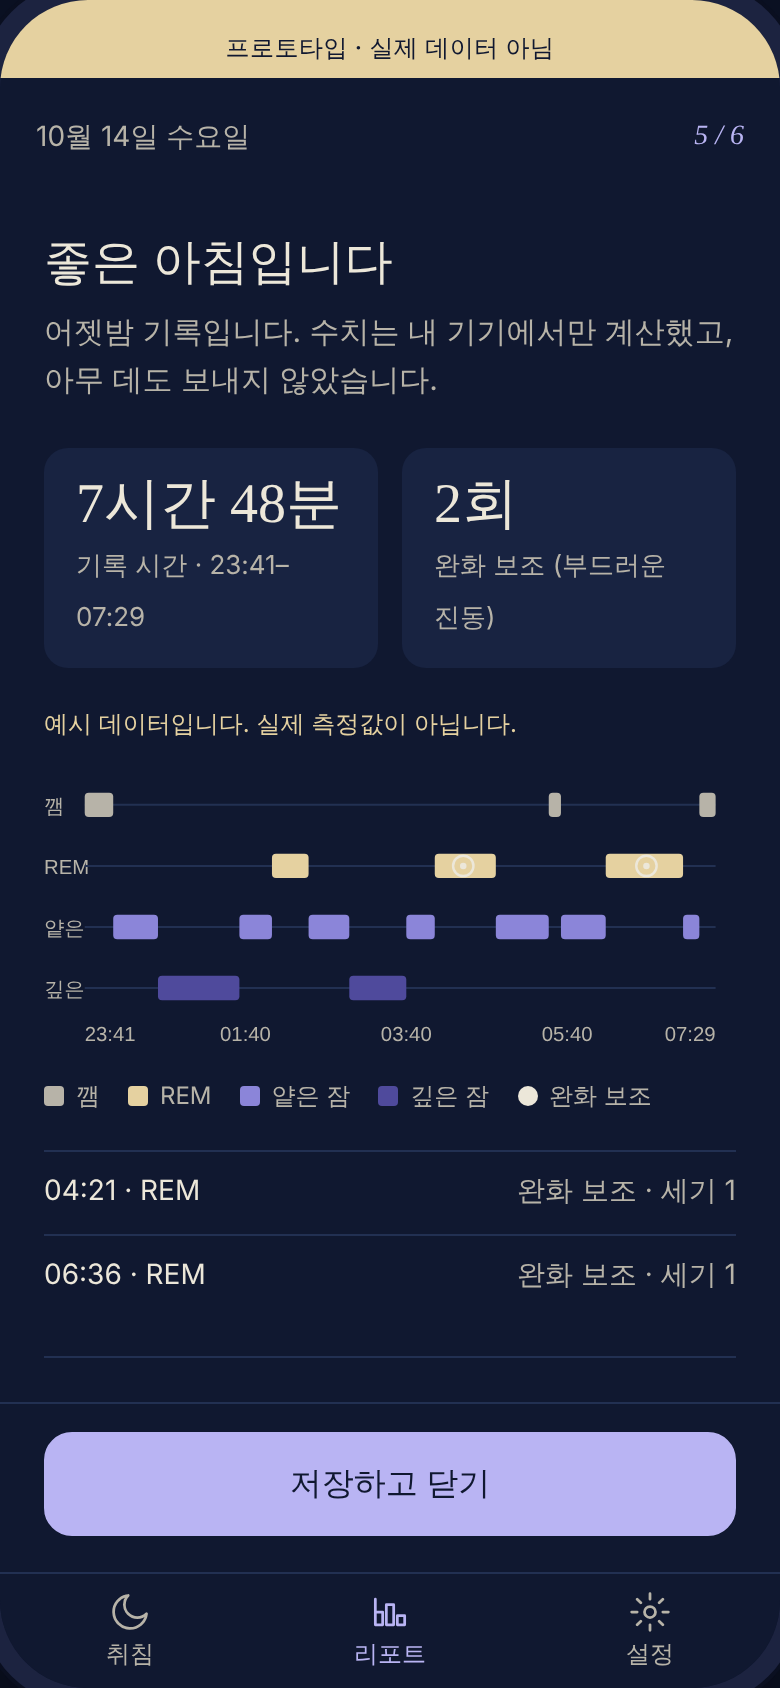
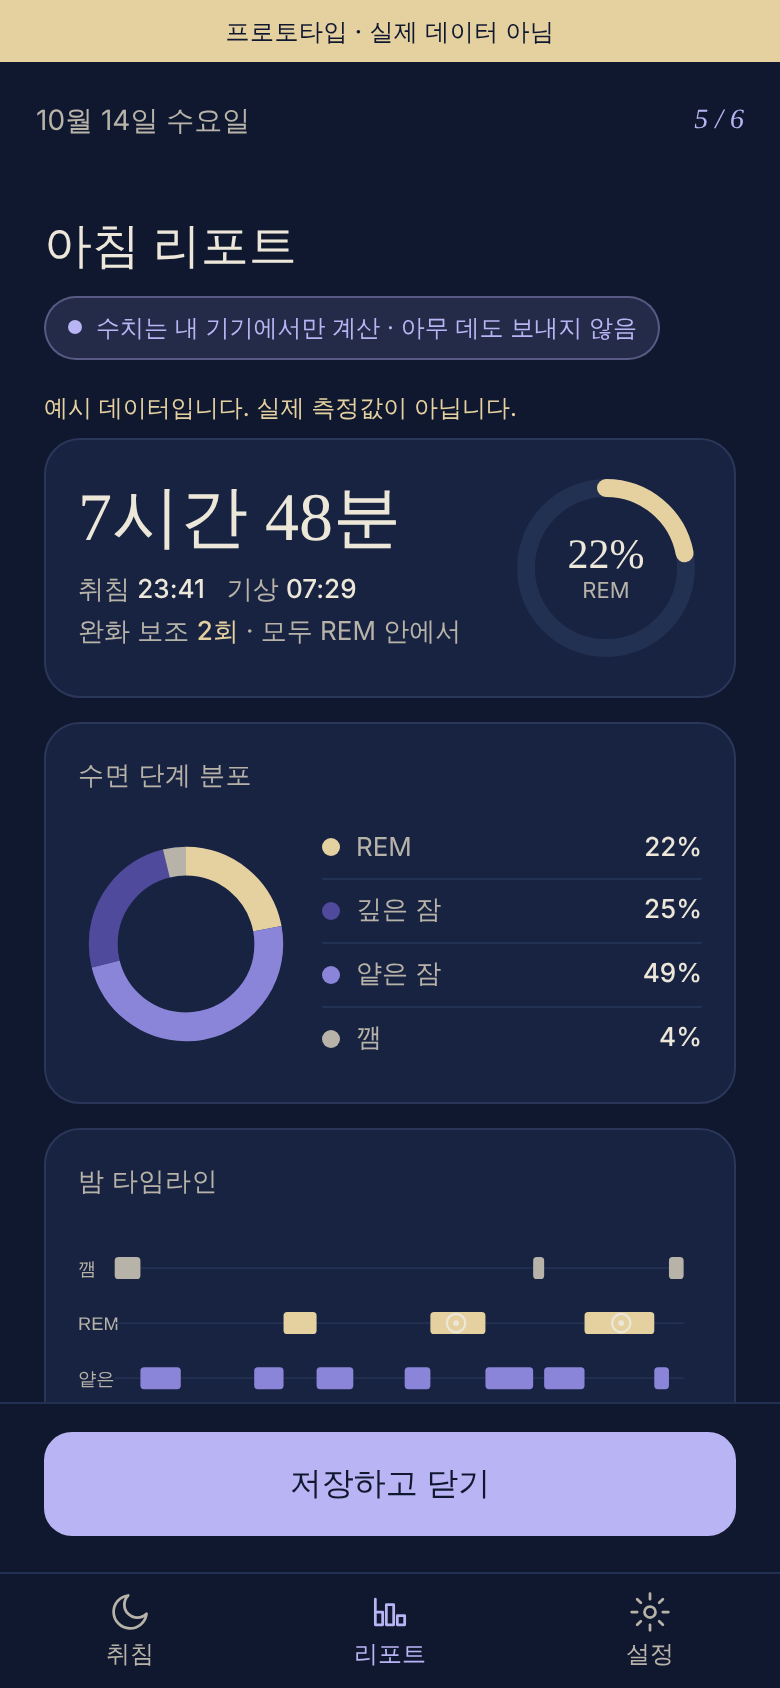
App prototype: morning report laid out Figma-style, same features and colors
Team meeting 2026-10-29 asked for the result screen to follow the earlier
Figma prototype's layout while keeping current features, wording and palette.

- Summary card: big duration + bedtime/wake + soothe count, ring shows REM
  share (no sleep score — per the app brief's "not doing" list).
- Sleep-stage distribution donut (same four stage colors as the band chart).
- Night timeline card keeps the existing band chart and legend.
- Soothe events in a highlighted card (time · REM · strength), named
  "완화 보조", not "악몽 감지".
- Two factual summary lines (no advice), then the existing feedback buttons
  (#fb / #fb-note) and "저장하고 닫기" (#report-save) — JS hooks unchanged.
- assets/app-report.png re-captured at 390×844@2x for the landing page.

Not carried over on purpose: score, HRV/respiration tiles, bone-conduction
wording, report sharing, home/monitoring/history tabs.

Claude-Session: https://claude.ai/code/session_01HWgQTQbC4EcVMsp2MT43n2

diff --git a/app/index.html b/app/index.html
@@ -192,6 +192,40 @@ input[type=range]{width:100%; height:44px; margin:0; accent-color:var(--lilac); 
 .fb button[aria-pressed="true"]{border-color:var(--lilac); background:rgba(185,180,243,.14); color:var(--moon)}
 .fb-note{font-size:13px; color:var(--moon-dim); margin-top:10px; min-height:1.4em}
 
+/* report v2 (2026-10-29 팀 미팅: Figma 레이아웃 차용 · 기능·색 동일) */
+.rp-pill{display:inline-flex; align-items:center; gap:7px; padding:5px 11px; border-radius:999px; font-size:12px; color:var(--lilac); background:rgba(185,180,243,.12); border:1px solid rgba(185,180,243,.35); margin:2px 0 14px}
+.rp-pill i{width:7px; height:7px; border-radius:50%; background:var(--lilac)}
+.rp-card{background:var(--depth); border:1px solid var(--haze); border-radius:18px; padding:16px; margin:0 0 12px}
+.rp-card h3{margin:0 0 10px; font-size:13px; font-weight:500; color:var(--moon-dim); letter-spacing:.02em}
+.rp-sum{display:grid; grid-template-columns:1fr 96px; align-items:center; gap:10px}
+.rp-sum .big{font-family:var(--serif); font-weight:400; font-size:34px; line-height:1.05; color:var(--moon)}
+.rp-sum .sm{font-size:13px; color:var(--moon-dim); margin-top:8px; line-height:1.55}
+.rp-sum .sm b{color:var(--moon); font-weight:500}
+.rp-sum .sm b.gold{color:var(--gold)}
+.rp-ring{position:relative; width:96px; height:96px}
+.rp-ring svg{width:96px; height:96px; transform:rotate(-90deg); display:block}
+.rp-ring .c{position:absolute; inset:0; display:grid; place-items:center; align-content:center; font-size:11px; color:var(--moon-dim); line-height:1.1}
+.rp-ring .c b{font-family:var(--serif); font-weight:400; font-size:21px; color:var(--moon)}
+.rp-dist{display:grid; grid-template-columns:108px 1fr; gap:14px; align-items:center}
+.rp-dist svg{width:108px; height:108px; display:block}
+.rp-dist ul{list-style:none; margin:0; padding:0; font-size:13px}
+.rp-dist li{display:flex; align-items:center; gap:8px; padding:5px 0; border-bottom:1px solid var(--haze-soft); color:var(--moon-dim)}
+.rp-dist li:last-child{border-bottom:0}
+.rp-dist li i{width:9px; height:9px; border-radius:50%; display:inline-block; flex:none}
+.rp-dist li b{margin-left:auto; color:var(--moon); font-weight:500}
+.rp-card .chart{margin:0}
+.rp-card .legend{margin:8px 0 0}
+.rp-ev{border-color:rgba(229,209,160,.5); background:linear-gradient(180deg, rgba(229,209,160,.07), var(--depth))}
+.rp-ev h3{color:var(--gold); display:flex; align-items:center; font-size:14px; font-weight:500}
+.rp-ev h3 .n{margin-left:auto; background:rgba(229,209,160,.16); color:var(--gold); border-radius:999px; padding:2px 10px; font-size:12px}
+.rp-ev .r{display:flex; justify-content:space-between; align-items:center; gap:8px; background:rgba(16,24,48,.55); border-radius:12px; padding:10px 12px; margin-top:8px; font-size:13px; color:var(--moon-dim)}
+.rp-ev .r b{color:var(--moon); font-weight:500; font-size:14px}
+.rp-facts{list-style:none; margin:0 0 12px; padding:0; display:grid; gap:8px}
+.rp-facts li{display:flex; gap:12px; background:var(--depth); border:1px solid var(--haze); border-radius:14px; padding:11px 14px; font-size:13px; line-height:1.5; color:var(--moon-dim)}
+.rp-facts li b{font-family:var(--serif); font-style:italic; color:var(--lilac); font-weight:400; min-width:20px}
+.rp-card.fbk h3{font-size:16px; font-weight:500; color:var(--moon); margin-bottom:4px}
+.rp-card.fbk .hint{font-size:13px; color:var(--moon-dim); margin:0 0 10px}
+
 /* data */
 .pill{display:inline-flex; align-items:center; gap:8px; padding:6px 12px; border-radius:999px; background:rgba(169,216,184,.12); color:var(--ok); font-size:13px; margin-bottom:16px}
 .pill i{width:8px; height:8px; border-radius:50%; background:var(--ok)}
@@ -342,63 +376,105 @@ input[type=range]{width:100%; height:44px; margin:0; accent-color:var(--lilac); 
     <section class="screen" id="s-report" aria-label="아침 리포트">
       <div class="bar"><span>10월 14일 수요일</span><span class="step">5 / 6</span></div>
       <div class="scroll">
-        <h2>좋은 아침입니다</h2>
-        <p class="lede">어젯밤 기록입니다. 수치는 내 기기에서만 계산했고, 아무 데도 보내지 않았습니다.</p>
-
-        <div class="kpis">
-          <div class="kpi"><b>7시간 48분</b><span>기록 시간 · 23:41–07:29</span></div>
-          <div class="kpi"><b>2회</b><span>완화 보조 (부드러운 진동)</span></div>
-        </div>
-
+        <h2>아침 리포트</h2>
+        <div class="rp-pill"><i></i>수치는 내 기기에서만 계산 · 아무 데도 보내지 않음</div>
         <p class="example">예시 데이터입니다. 실제 측정값이 아닙니다.</p>
-        <div class="chart" role="img" aria-label="수면 단계 띠 그래프 예시. 깸, REM, 얕은 잠, 깊은 잠이 밤 동안 번갈아 나타나고, REM 구간 두 곳에 완화 보조 표시가 있습니다.">
-          <svg viewBox="0 0 340 150" xmlns="http://www.w3.org/2000/svg">
-            <!-- stage rows: W y=18, R y=48, L y=78, D y=108 ; x 20..330 = 23:41..07:29 (468 min) -->
-            <g font-family="Noto Sans KR, sans-serif" font-size="10" fill="#b7b3a8">
-              <text x="0" y="28">깸</text><text x="0" y="58">REM</text><text x="0" y="88">얕은</text><text x="0" y="118">깊은</text>
-            </g>
-            <g stroke="#223052" stroke-width="1">
-              <line x1="20" y1="24" x2="330" y2="24"/><line x1="20" y1="54" x2="330" y2="54"/><line x1="20" y1="84" x2="330" y2="84"/><line x1="20" y1="114" x2="330" y2="114"/>
-            </g>
-            <!-- bands -->
-            <g>
-              <rect x="20"  y="18" width="14" height="12" rx="2" fill="#b7b3a8"/>
-              <rect x="34"  y="78" width="22" height="12" rx="2" fill="#8b85d9"/>
-              <rect x="56"  y="108" width="40" height="12" rx="2" fill="#4f4a9c"/>
-              <rect x="96"  y="78" width="16" height="12" rx="2" fill="#8b85d9"/>
-              <rect x="112" y="48" width="18" height="12" rx="2" fill="#e5d1a0"/>
-              <rect x="130" y="78" width="20" height="12" rx="2" fill="#8b85d9"/>
-              <rect x="150" y="108" width="28" height="12" rx="2" fill="#4f4a9c"/>
-              <rect x="178" y="78" width="14" height="12" rx="2" fill="#8b85d9"/>
-              <rect x="192" y="48" width="30" height="12" rx="2" fill="#e5d1a0"/>
-              <rect x="222" y="78" width="26" height="12" rx="2" fill="#8b85d9"/>
-              <rect x="248" y="18" width="6"  height="12" rx="2" fill="#b7b3a8"/>
-              <rect x="254" y="78" width="22" height="12" rx="2" fill="#8b85d9"/>
-              <rect x="276" y="48" width="38" height="12" rx="2" fill="#e5d1a0"/>
-              <rect x="314" y="78" width="8"  height="12" rx="2" fill="#8b85d9"/>
-              <rect x="322" y="18" width="8"  height="12" rx="2" fill="#b7b3a8"/>
-            </g>
-            <!-- soothe events inside REM -->
-            <g fill="none" stroke="#ece7d9" stroke-width="1.2">
-              <circle cx="206" cy="54" r="5"/><circle cx="296" cy="54" r="5"/>
-            </g>
-            <g fill="#ece7d9"><circle cx="206" cy="54" r="1.6"/><circle cx="296" cy="54" r="1.6"/></g>
-            <!-- time axis -->
-            <g font-family="Noto Sans KR, sans-serif" font-size="10" fill="#b7b3a8" text-anchor="middle">
-              <text x="20" y="140" text-anchor="start">23:41</text><text x="99" y="140">01:40</text><text x="178" y="140">03:40</text><text x="257" y="140">05:40</text><text x="330" y="140" text-anchor="end">07:29</text>
-            </g>
-          </svg>
-        </div>
-        <div class="legend" aria-hidden="true">
-          <span><i style="background:#b7b3a8"></i>깸</span><span><i style="background:#e5d1a0"></i>REM</span><span><i style="background:#8b85d9"></i>얕은 잠</span><span><i style="background:#4f4a9c"></i>깊은 잠</span><span><i style="background:#ece7d9; border-radius:50%"></i>완화 보조</span>
+
+        <!-- 요약: 큰 숫자 + REM 비율 게이지 (점수 아님) -->
+        <div class="rp-card">
+          <div class="rp-sum">
+            <div>
+              <div class="big">7시간 48분</div>
+              <div class="sm">취침 <b>23:41</b> &nbsp; 기상 <b>07:29</b><br>완화 보조 <b class="gold">2회</b> · 모두 REM 안에서</div>
+            </div>
+            <div class="rp-ring" role="img" aria-label="REM 비율 22%">
+              <svg viewBox="0 0 96 96" aria-hidden="true"><circle cx="48" cy="48" r="40" fill="none" stroke="#223052" stroke-width="9"/><circle cx="48" cy="48" r="40" fill="none" stroke="#e5d1a0" stroke-width="9" stroke-linecap="round" stroke-dasharray="55.3 251.3"/></svg>
+              <div class="c"><b>22%</b>REM</div>
+            </div>
+          </div>
         </div>
 
-        <ul class="events">
-          <li><b>04:21 · REM</b><span>완화 보조 · 세기 1</span></li>
-          <li><b>06:36 · REM</b><span>완화 보조 · 세기 1</span></li>
+        <!-- 수면 단계 분포 (띠 그래프와 같은 데이터·같은 4색) -->
+        <div class="rp-card">
+          <h3>수면 단계 분포</h3>
+          <div class="rp-dist">
+            <svg viewBox="0 0 120 120" role="img" aria-label="수면 단계 분포: REM 22%, 깊은 잠 25%, 얕은 잠 49%, 깸 4%">
+              <circle cx="60" cy="60" r="46" fill="none" stroke="#2b3759" stroke-width="16"/>
+              <circle cx="60" cy="60" r="46" fill="none" stroke="#e5d1a0" stroke-width="16" stroke-dasharray="63.6 289" transform="rotate(-90 60 60)"/>
+              <circle cx="60" cy="60" r="46" fill="none" stroke="#8b85d9" stroke-width="16" stroke-dasharray="141.6 289" stroke-dashoffset="-63.6" transform="rotate(-90 60 60)"/>
+              <circle cx="60" cy="60" r="46" fill="none" stroke="#4f4a9c" stroke-width="16" stroke-dasharray="72.3 289" stroke-dashoffset="-205.2" transform="rotate(-90 60 60)"/>
+              <circle cx="60" cy="60" r="46" fill="none" stroke="#b7b3a8" stroke-width="16" stroke-dasharray="11.5 289" stroke-dashoffset="-277.5" transform="rotate(-90 60 60)"/>
+            </svg>
+            <ul aria-hidden="true">
+              <li><i style="background:#e5d1a0"></i>REM <b>22%</b></li>
+              <li><i style="background:#4f4a9c"></i>깊은 잠 <b>25%</b></li>
+              <li><i style="background:#8b85d9"></i>얕은 잠 <b>49%</b></li>
+              <li><i style="background:#b7b3a8"></i>깸 <b>4%</b></li>
+            </ul>
+          </div>
+        </div>
+
+        <!-- 밤 타임라인 (기존 띠 그래프 그대로) -->
+        <div class="rp-card">
+          <h3>밤 타임라인</h3>
+          <div class="chart" role="img" aria-label="수면 단계 띠 그래프 예시. 깸, REM, 얕은 잠, 깊은 잠이 밤 동안 번갈아 나타나고, REM 구간 두 곳에 완화 보조 표시가 있습니다.">
+            <svg viewBox="0 0 340 150" xmlns="http://www.w3.org/2000/svg">
+              <!-- stage rows: W y=18, R y=48, L y=78, D y=108 ; x 20..330 = 23:41..07:29 (468 min) -->
+              <g font-family="Noto Sans KR, sans-serif" font-size="10" fill="#b7b3a8">
+                <text x="0" y="28">깸</text><text x="0" y="58">REM</text><text x="0" y="88">얕은</text><text x="0" y="118">깊은</text>
+              </g>
+              <g stroke="#223052" stroke-width="1">
+                <line x1="20" y1="24" x2="330" y2="24"/><line x1="20" y1="54" x2="330" y2="54"/><line x1="20" y1="84" x2="330" y2="84"/><line x1="20" y1="114" x2="330" y2="114"/>
+              </g>
+              <!-- bands -->
+              <g>
+                <rect x="20"  y="18" width="14" height="12" rx="2" fill="#b7b3a8"/>
+                <rect x="34"  y="78" width="22" height="12" rx="2" fill="#8b85d9"/>
+                <rect x="56"  y="108" width="40" height="12" rx="2" fill="#4f4a9c"/>
+                <rect x="96"  y="78" width="16" height="12" rx="2" fill="#8b85d9"/>
+                <rect x="112" y="48" width="18" height="12" rx="2" fill="#e5d1a0"/>
+                <rect x="130" y="78" width="20" height="12" rx="2" fill="#8b85d9"/>
+                <rect x="150" y="108" width="28" height="12" rx="2" fill="#4f4a9c"/>
+                <rect x="178" y="78" width="14" height="12" rx="2" fill="#8b85d9"/>
+                <rect x="192" y="48" width="30" height="12" rx="2" fill="#e5d1a0"/>
+                <rect x="222" y="78" width="26" height="12" rx="2" fill="#8b85d9"/>
+                <rect x="248" y="18" width="6"  height="12" rx="2" fill="#b7b3a8"/>
+                <rect x="254" y="78" width="22" height="12" rx="2" fill="#8b85d9"/>
+                <rect x="276" y="48" width="38" height="12" rx="2" fill="#e5d1a0"/>
+                <rect x="314" y="78" width="8"  height="12" rx="2" fill="#8b85d9"/>
+                <rect x="322" y="18" width="8"  height="12" rx="2" fill="#b7b3a8"/>
+              </g>
+              <!-- soothe events inside REM -->
+              <g fill="none" stroke="#ece7d9" stroke-width="1.2">
+                <circle cx="206" cy="54" r="5"/><circle cx="296" cy="54" r="5"/>
+              </g>
+              <g fill="#ece7d9"><circle cx="206" cy="54" r="1.6"/><circle cx="296" cy="54" r="1.6"/></g>
+              <!-- time axis -->
+              <g font-family="Noto Sans KR, sans-serif" font-size="10" fill="#b7b3a8" text-anchor="middle">
+                <text x="20" y="140" text-anchor="start">23:41</text><text x="99" y="140">01:40</text><text x="178" y="140">03:40</text><text x="257" y="140">05:40</text><text x="330" y="140" text-anchor="end">07:29</text>
+              </g>
+            </svg>
+          </div>
+          <div class="legend" aria-hidden="true">
+            <span><i style="background:#b7b3a8"></i>깸</span><span><i style="background:#e5d1a0"></i>REM</span><span><i style="background:#8b85d9"></i>얕은 잠</span><span><i style="background:#4f4a9c"></i>깊은 잠</span><span><i style="background:#ece7d9; border-radius:50%"></i>완화 보조</span>
+          </div>
+        </div>
+
+        <!-- 완화 보조 이벤트 (시각 · REM · 세기 — 내용은 기존과 동일) -->
+        <div class="rp-card rp-ev">
+          <h3>완화 보조 <span class="n">2회</span></h3>
+          <div class="r"><div><b>04:21</b> · REM</div><span>부드러운 진동 · 세기 1</span></div>
+          <div class="r"><div><b>06:36</b> · REM</div><span>부드러운 진동 · 세기 1</span></div>
+        </div>
+
+        <!-- 사실 요약 (조언 없음) -->
+        <ul class="rp-facts">
+          <li><b>01</b>REM 구간 4번, 모두 1시간 42분. 완화 보조는 둘 다 REM 안에서만 있었습니다.</li>
+          <li><b>02</b>밤중에 깬 기록 2번, 모두 12분. 완화 보조 뒤에 깬 기록은 없습니다.</li>
         </ul>
 
-        <div class="block">
+        <!-- 아침 피드백 (기존 기능·훅 그대로) -->
+        <div class="rp-card fbk">
           <h3>어젯밤 진동은 어땠나요?</h3>
           <p class="hint">이 답은 내 기기에만 저장되고, 다음 밤 세기를 고를 때 참고하도록 보여 드립니다.</p>
           <div class="fb" id="fb">
